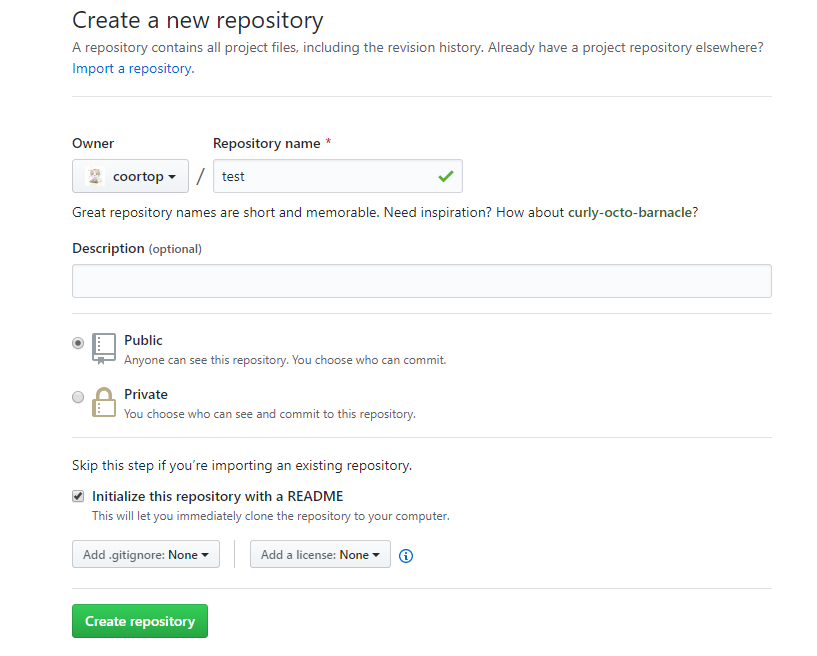
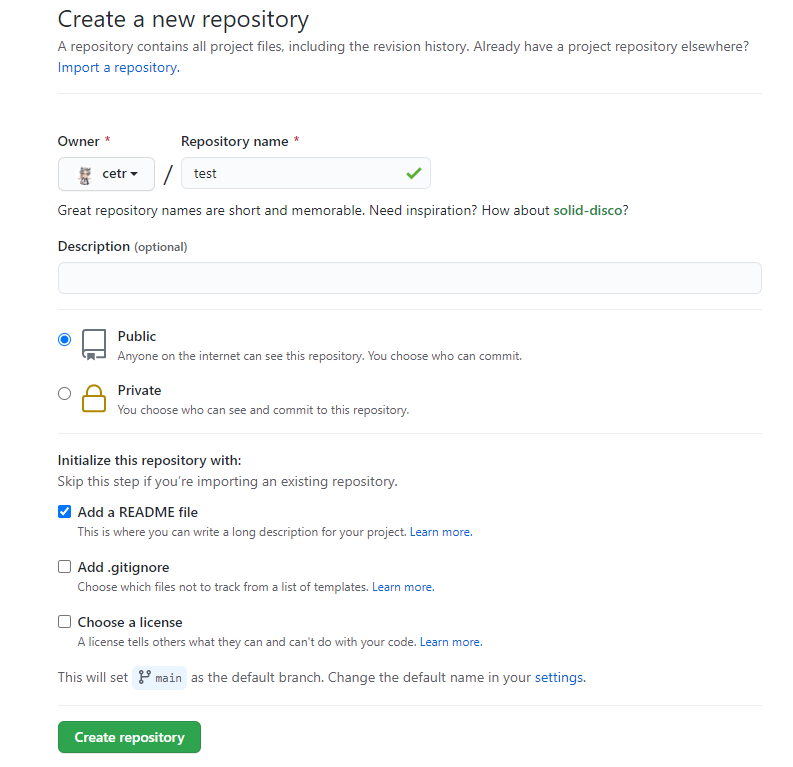
Add files via upload

diff --git a/README.md b/README.md
@@ -1,1 +1,1 @@
-[![](https://data.jsdelivr.com/v1/package/gh/coortop/cdn/badge)](https://www.jsdelivr.com/package/gh/coortop/cdn)
+[![](https://data.jsdelivr.com/v1/package/gh/cetr/cdn/badge)](https://www.jsdelivr.com/package/gh/cetr/cdn)
